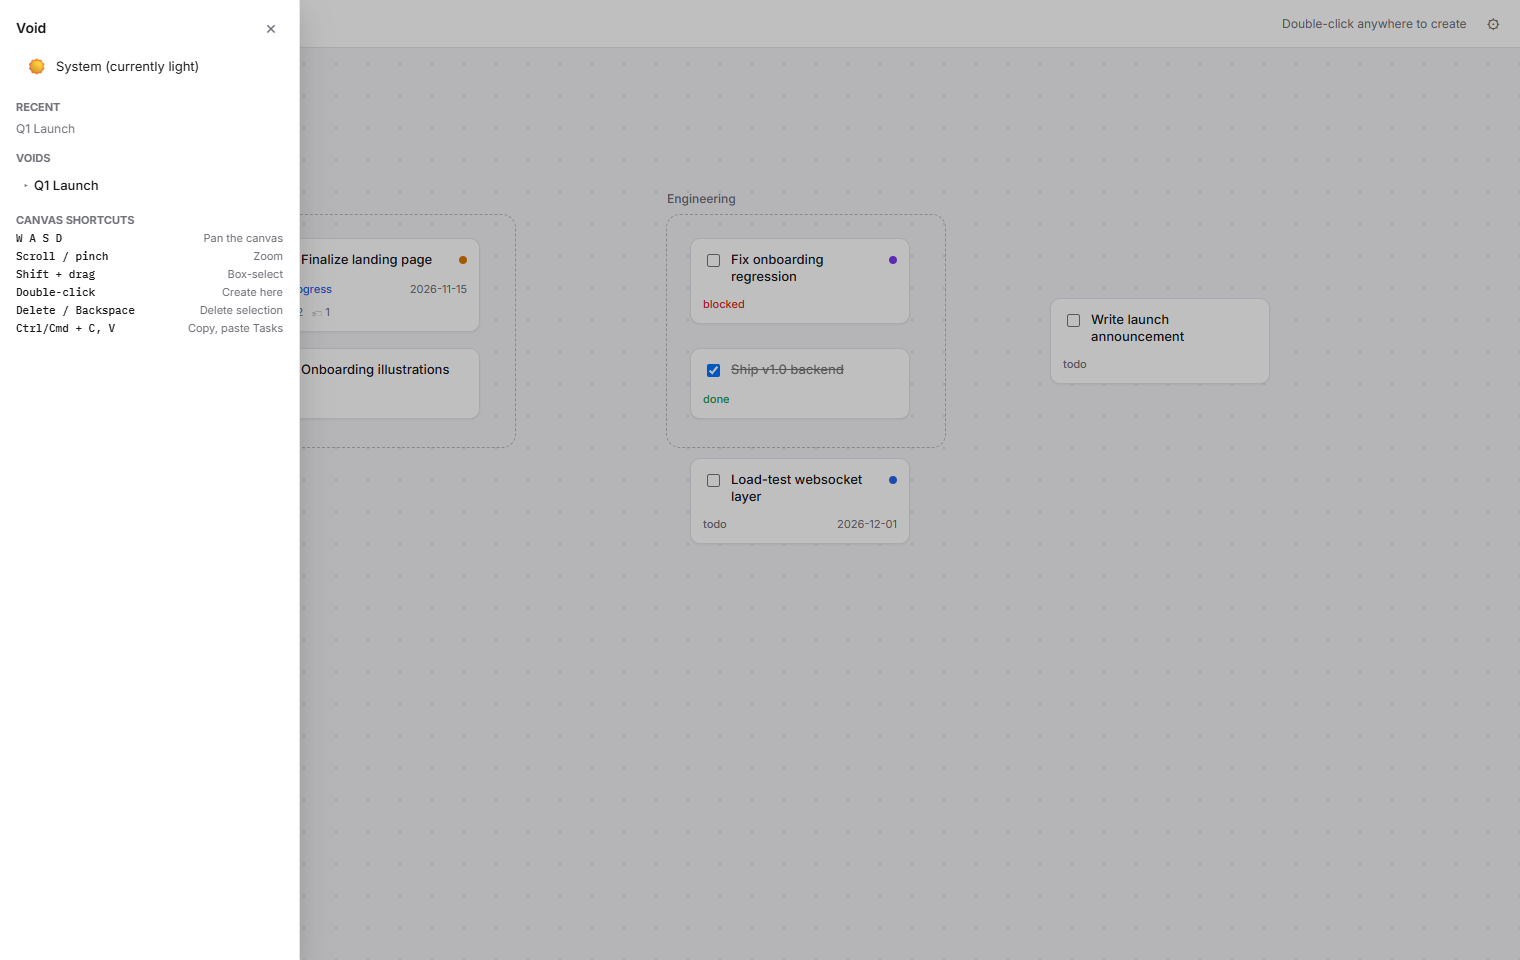
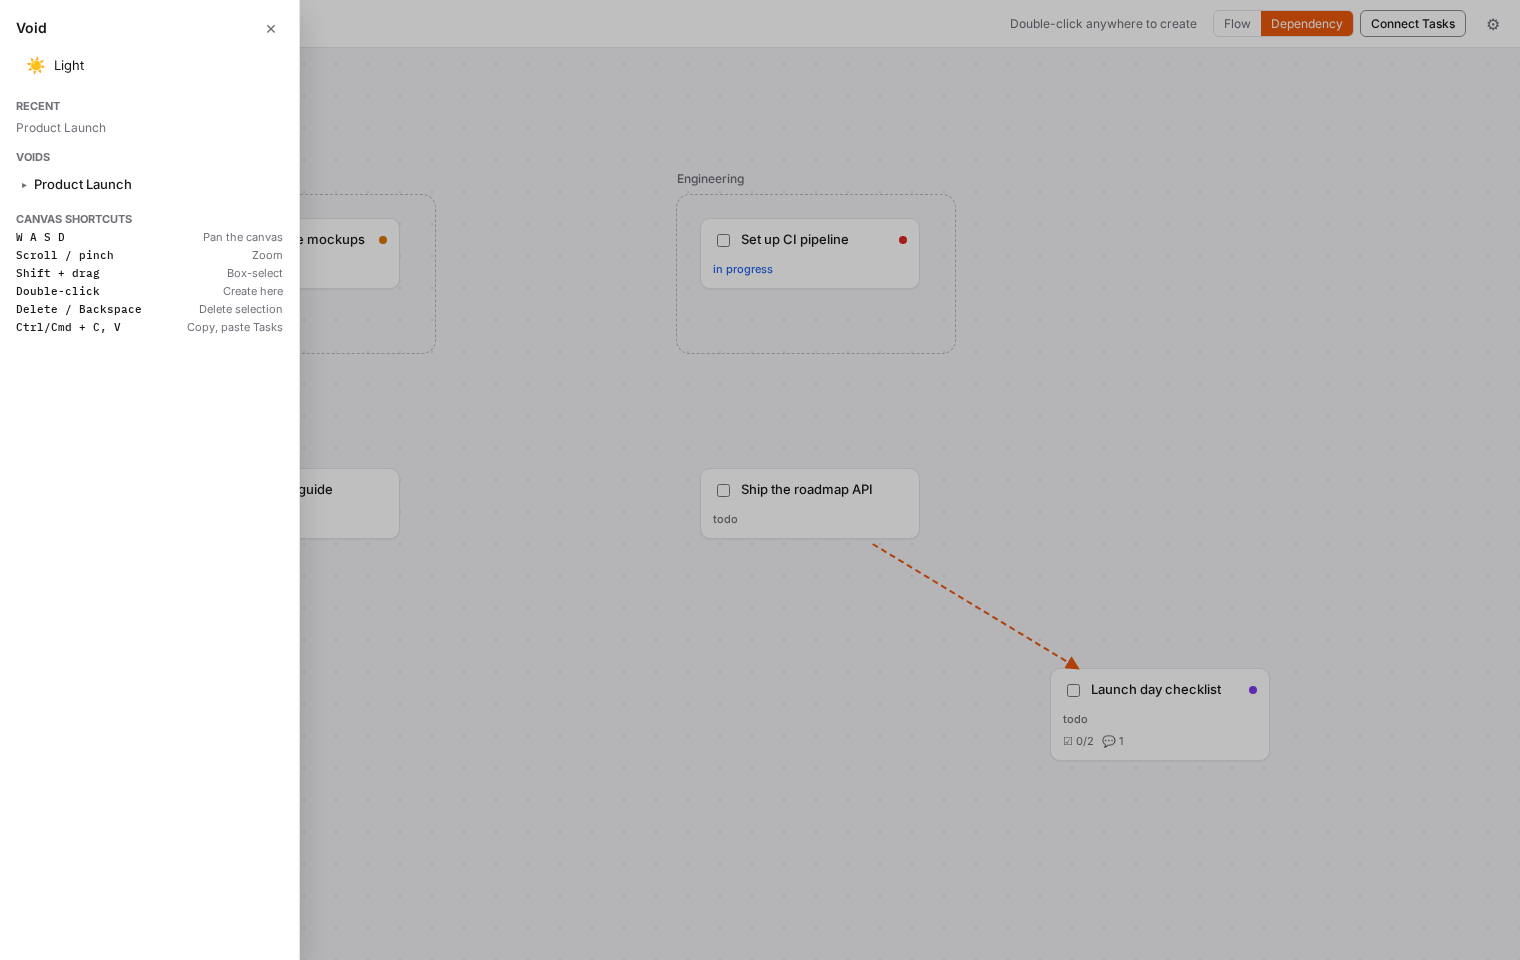
Refresh README and screenshots for Task Links
Leads with a hero screenshot showing flow/dependency arrows, adds Task
Links and the mutation-feedback work to Features, fixes stale
references to the removed docs/ folder and an outdated CI description,
and adds an author/contact section.

diff --git a/README.md b/README.md
@@ -1,7 +1,7 @@
 <div align="center">
   <img src="assets/logo/void-logo.svg" alt="Void" width="360" />
 
-  <p><strong>An infinite spatial canvas for teams who think better visually than in rows and columns.</strong></p>
+  <p><strong>Task management as a place, not a list — an infinite spatial canvas where work lives where you put it.</strong></p>
 
   <p>
     <a href="https://github.com/CastielJ/TheVoid/actions/workflows/ci.yml"><img src="https://github.com/CastielJ/TheVoid/actions/workflows/ci.yml/badge.svg" alt="CI status"></a>
@@ -10,98 +10,105 @@
     <img src="https://img.shields.io/badge/TypeScript-100%25-6366f1.svg" alt="TypeScript">
     <a href="CONTRIBUTING.md"><img src="https://img.shields.io/badge/PRs-welcome-6366f1.svg" alt="PRs welcome"></a>
   </p>
+
+  <p>
+    <a href="https://e-z.bio/trite"><strong>e-z.bio/trite</strong></a>
+  </p>
+
+  <br />
+
+  <img src="assets/screenshots/canvas-overview.png" alt="Groups auto-sizing around their Tasks, connected by flow and dependency arrows" width="820" />
 </div>
 
 ---
 
-Void is a **spatial team task-management platform**. Instead of yet another
-list or kanban board, work lives on an infinite pan-and-zoom canvas: create
-**Groups** as spatial clusters of **Tasks**, drag things around, zoom out to
-see the whole picture, zoom in to get precise — with everyone's changes
-syncing live, in real time, over WebSockets.
+Most task tools force everything into rows and columns. Void doesn't: work
+lives on an infinite pan-and-zoom canvas, exactly where you drop it. Cluster
+related work into **Groups** that auto-size around their **Tasks**, connect
+Tasks to each other with directional **Task Link** arrows, zoom out for the
+whole board, zoom in to get precise — with every change syncing live to
+everyone else looking at the same canvas.
 
 Organizations contain **Voids** — self-contained workspaces, each with their
-own canvas. A Void can be nested under another Void to form a **Team** (a
-sub-workspace with its own membership and visibility, exactly like a
-subdirectory), so a company can model "Engineering" and "Design" as their
-own spaces inside a shared "Product Launch" Void, or keep them fully
-independent — whatever actually matches how the team is organized.
+own canvas. A Void can nest under another Void to form a **Team** (its own
+membership and visibility, exactly like a subdirectory), so a company can
+model "Engineering" and "Design" as spaces inside a shared "Product Launch"
+Void — or keep them fully independent. Whatever matches how the team
+actually works.
 
 ## Contents
 
-- [Screenshots](#screenshots)
 - [Features](#features)
+- [More screenshots](#more-screenshots)
 - [Tech stack](#tech-stack)
 - [Getting started](#getting-started)
 - [Project structure](#project-structure)
-- [Common commands](#common-commands)
 - [Architecture highlights](#architecture-highlights)
 - [Testing](#testing)
-- [Documentation](#documentation)
 - [Contributing](#contributing)
 - [Security](#security)
+- [Author](#author)
 - [License](#license)
 
-## Screenshots
+## Features
+
+- **Spatial canvas** — infinite pan/zoom, WASD + mouse navigation,
+  box-select, copy/paste, drag-to-reposition, virtualized rendering that
+  stays smooth at ~1,500+ objects per Void.
+- **Task Links** — connect Tasks with directional arrows: drag a connector
+  handle between two cards, or arm a toolbar button and click source then
+  target. **Flow** links are a visual suggested order; **dependency**
+  links are enforced — a Task can't be marked done while one it depends on
+  isn't.
+- **Auto-sizing Groups** — a tight bounding box the server recomputes over
+  its member Tasks, with a live preview while you drag a Task in or out.
+  Never manually resized.
+- **Fully inline task editing** — click a Task to expand it in place:
+  description, status, priority, due date, tags, multi-assignee, checklist,
+  threaded comments, all on the card itself, with a guard against losing
+  unsaved edits.
+- **Mutations that tell you what's happening** — a real pending state (a
+  spinner, a dimmed card) until the server confirms, and a toast instead of
+  silent failure when it doesn't.
+- **Nested Voids ("Teams")** — independent membership and one of three
+  visibility tiers per Void (public / private / invisible), with a real
+  join-request workflow for private spaces.
+- **Live realtime sync** — every Task/Group/Task-Link change broadcasts
+  over WebSockets to everyone viewing that Void, last-write-wins.
+- **Real light & dark themes**, synced server-side across devices —
+  including the canvas workspace itself, not just the UI chrome.
+- **Capability-based authorization** — every permission check is a named
+  function (`canEditVoid`, `canManageVoidAccess`, …), never a hardcoded
+  role string. Organization role never silently grants Void access.
+- **Auth that doesn't cut corners** — email+password or magic-link login,
+  optional TOTP 2FA with backup codes, breached-password checking (HIBP
+  k-anonymity), per-device session management.
+- **In-app notifications, search, and a cross-Void "My Tasks" view.**
+
+## More screenshots
 
 <table>
   <tr>
     <td width="50%">
-      <img src="assets/screenshots/canvas-overview.png" alt="The spatial canvas: auto-sizing Groups clustering Tasks, with status/priority/due-date badges" />
-      <p align="center"><em>The canvas — Groups auto-size to fit their Tasks</em></p>
+      <img src="assets/screenshots/task-expanded.png" alt="A Task card expanded inline, showing description, status, priority, due date, checklist, and comments" />
+      <p align="center"><em>Fully inline task editing — no side panel</em></p>
     </td>
     <td width="50%">
-      <img src="assets/screenshots/task-expanded.png" alt="A Task card expanded inline, showing description, status, priority, due date, tags, checklist, and comments" />
-      <p align="center"><em>Fully inline task editing — no side panel</em></p>
+      <img src="assets/screenshots/canvas-dark-theme.png" alt="The same canvas in dark theme, with flow and dependency Task Links" />
+      <p align="center"><em>Real dark theme, canvas included</em></p>
     </td>
   </tr>
   <tr>
     <td width="50%">
-      <img src="assets/screenshots/canvas-dark-theme.png" alt="The same canvas in dark theme" />
-      <p align="center"><em>Real light and dark themes, canvas included</em></p>
+      <img src="assets/screenshots/left-panel.png" alt="The left navigation panel with theme toggle, recent Voids, and canvas shortcuts" />
+      <p align="center"><em>Nested Voids/Teams navigation, theme toggle, recents</em></p>
     </td>
     <td width="50%">
-      <img src="assets/screenshots/left-panel.png" alt="The left navigation panel with theme toggle, recent Voids, and the Voids/Teams tree" />
-      <p align="center"><em>Nested Voids/Teams navigation, theme toggle, recents</em></p>
+      <img src="assets/screenshots/org-dashboard.png" alt="Organization dashboard showing Voids, members, invitations, and settings" />
+      <p align="center"><em>Organization dashboard — Voids, members, invitations, settings</em></p>
     </td>
   </tr>
 </table>
-
-<p align="center">
-  <img src="assets/screenshots/org-dashboard.png" alt="Organization dashboard showing Voids, members, invitations, and settings" width="720" />
-  <br /><em>Organization dashboard — Voids, members, invitations, settings</em>
-</p>
-
-## Features
-
-- **Spatial canvas** — infinite pan/zoom workspace, WASD + mouse navigation,
-  box-select, copy/paste, drag-to-reposition, virtualized rendering that
-  stays smooth at ~1,500+ objects per Void.
-- **Auto-sizing Groups** — a Group is a server-computed tight bounding box
-  over its member Tasks, with a live preview while you drag a Task in or out
-  — never manually resized.
-- **Fully inline task editing** — click a Task to expand it in place:
-  description, status, priority, due date, tags, multi-assignee, checklist,
-  and threaded comments, all on the card itself. Explicit Save/Discard on
-  the core fields, with a guard against accidentally losing unsaved edits.
-- **Nested Voids ("Teams")** — a Void can contain child Voids, each with
-  independent membership and one of three visibility tiers (public /
-  private / invisible), with a real join-request workflow for private
-  spaces.
-- **Live realtime sync** — every Task/Group mutation broadcasts over
-  WebSockets to everyone viewing that Void, with last-write-wins conflict
-  resolution.
-- **Real light & dark themes** — a genuine second palette for both the UI
-  chrome and the canvas workspace itself, synced server-side across devices.
-- **Capability-based authorization** — every permission check is a named
-  capability function (`canEditVoid`, `canManageVoidAccess`, …), never a
-  hardcoded role string; Organization role never silently grants Void
-  access.
-- **Auth that doesn't cut corners** — email+password or magic-link login,
-  optional TOTP 2FA with backup codes, breached-password checking (HIBP
-  k-anonymity), server-side sessions with per-device management, login by
-  either email or username.
-- **In-app notifications, search, and a cross-Void "My Tasks" view.**
 
 ## Tech stack
 
@@ -113,13 +120,11 @@ independent — whatever actually matches how the team is organized.
 | Frontend     | React + [Vite](https://vitejs.dev)                                                                                                         |
 | Client state | [Zustand](https://github.com/pmndrs/zustand) (canvas/object state) + [TanStack Query](https://tanstack.com/query) (server state, via tRPC) |
 | Realtime     | Native WebSockets (`@fastify/websocket`), no external pub/sub required                                                                     |
-| Routing      | React Router                                                                                                                               |
-| Testing      | [Vitest](https://vitest.dev) (unit/integration) + [Playwright](https://playwright.dev) (critical-path E2E)                                 |
+| Testing      | [Vitest](https://vitest.dev) (unit/integration, both packages) + [Playwright](https://playwright.dev) (critical-path E2E)                  |
 | Monorepo     | pnpm workspaces (`packages/shared`, `packages/server`, `packages/web`)                                                                     |
 
 No Kubernetes, no message broker, no ORM-generated GraphQL schema to fight
-with — the stack is chosen to stay boring and debuggable at this project's
-actual scale.
+with — boring and debuggable at this project's actual scale.
 
 ## Getting started
 
@@ -139,8 +144,19 @@ pnpm dev:server   # Fastify + tRPC on :3000
 pnpm dev:web      # Vite + React on :5173, in a second terminal
 ```
 
-Open `http://localhost:5173` and sign up — the app is fully usable from a
-freshly migrated, empty database.
+Open `http://localhost:5173` and sign up — fully usable from a freshly
+migrated, empty database.
+
+```sh
+pnpm typecheck      # every package
+pnpm lint
+pnpm format         # write; use `format:check` in CI
+pnpm test           # unit + integration, every package
+pnpm --filter @void/web test:e2e   # Playwright critical-path suite
+
+pnpm db:generate    # generate a Drizzle migration from a schema.ts change
+pnpm db:migrate     # apply pending migrations
+```
 
 ## Project structure
 
@@ -157,101 +173,66 @@ void/
 │   │       └── db/            Drizzle schema + migrations
 │   └── web/       React + Vite frontend
 │       └── src/
-│           ├── canvas/        the spatial canvas itself (viewport, cards, store, spatial index)
+│           ├── canvas/        the spatial canvas (viewport, cards, edges, store, spatial index)
 │           ├── features/      page-level feature modules (org, void, auth, notifications, …)
 │           ├── app/           app shell, left panel, theming, session
 │           └── trpc/          typed tRPC client
-├── docs/          architecture, product spec, and a dated decision log
 ├── assets/        logo and README screenshots
 └── .github/       CI workflow, issue/PR templates
 ```
 
-## Common commands
-
-```sh
-pnpm typecheck      # every package
-pnpm lint
-pnpm format         # write; use `format:check` in CI
-pnpm test           # every package
-pnpm --filter @void/web test:e2e   # Playwright critical-path suite
-
-pnpm db:generate    # generate a Drizzle migration from a schema.ts change
-pnpm db:migrate     # apply pending migrations
-```
-
 ## Architecture highlights
 
-A few decisions worth knowing before you dig into the code:
-
 - **Access is never inferred from role alone.** An Organization Owner/Admin
-  does **not** automatically get access to every Void in the org — Void
-  access is always an explicit grant. (One narrow, documented exception:
-  Void _deletion_ specifically.) This is treated as non-negotiable
-  throughout the codebase.
+  does **not** automatically get access to every Void — access is always an
+  explicit grant, with one narrow, documented exception (Void _deletion_).
 - **Every mutation resolves its own parent IDs server-side.** A procedure
-  that acts on a child resource (a Group, a checklist item, a join request)
-  never trusts a client-supplied parent Void/Org ID — it looks the real
-  parent up from the resource itself.
-- **Groups are server-computed, not client-resizable.** A Group's bounds
-  are a tight bounding box recomputed over its member Tasks on every
-  relevant mutation — this eliminates an entire class of "my drag and your
-  drag disagree" bugs.
-- **A "Team" is just a Void.** `voids` is a self-referencing table
-  (`parentVoidId`) — nesting is unlimited by the schema, and a nested Void
-  gets its own independent canvas, membership, and visibility for free,
-  with zero special-casing in the canvas rendering code.
-
-The full reasoning behind these (and everything else) lives in
-[`docs/decisions.md`](docs/decisions.md), written chronologically as the
-project evolved — it's the best place to understand _why_ something is
-built the way it is, not just what it does.
+  acting on a child resource never trusts a client-supplied parent ID — it
+  looks the real parent up from the resource itself.
+- **Groups are server-computed, not client-resizable.** Bounds are a tight
+  bounding box recomputed over member Tasks on every relevant mutation —
+  no "my drag and your drag disagree" bugs.
+- **A "Team" is just a Void.** `voids` is a self-referencing table —
+  nesting is unlimited, and a nested Void gets its own canvas, membership,
+  and visibility for free, with zero special-casing in the canvas code.
+- **Task Links are real rows, not client-side decoration.** They live in
+  Postgres, broadcast over the same WebSocket channel as Task/Group
+  changes, and cascade-delete with either endpoint Task via explicit
+  application logic in the same transaction — Task deletion is always a
+  soft-delete, so a plain foreign-key cascade would never actually fire.
+- **The canvas only does the work a change needs.** Dragging a card
+  updates just that card's live position; the spatial index virtualization
+  depends on is left alone until the drag settles, instead of rebuilding
+  on every pointer-move frame.
 
 ## Testing
 
 - **Unit + integration** (Vitest) — the authorization/capability layer has
-  the highest-priority coverage in the project: every capability function
-  is tested for both the positive and negative case, against a real
-  Postgres database (not mocked).
+  the highest-priority coverage: every capability function is tested for
+  both the positive and negative case, against a real Postgres database.
 - **Critical-path E2E** (Playwright) — drives the real app through a
-  browser: signup → create org → create a Void → create a nested Team →
-  add members → create Groups/Tasks → assign work → verify authorized
-  access and unauthorized denial → visibility + join-request flow.
-
-```sh
-pnpm test                          # unit + integration, all packages
-pnpm --filter @void/web test:e2e   # E2E (spins up real Postgres-backed servers)
-```
+  browser: signup → org → Void → nested Team → members → Groups/Tasks →
+  assign work → authorized access and unauthorized denial → visibility +
+  join-request flow.
 
 CI ([`.github/workflows/ci.yml`](.github/workflows/ci.yml)) runs
-`typecheck` → `lint` → `format:check` → migrations → `test` →
-`test:e2e` on every push and pull request.
-
-## Documentation
-
-The `docs/` folder is the authoritative source for anything not obvious from
-the code itself:
-
-- [`docs/project-context.md`](docs/project-context.md) — product model,
-  entity relationships, MVP scope, and the non-negotiable architectural
-  rules. **Start here.**
-- [`docs/architecture.md`](docs/architecture.md) — system architecture in
-  more depth.
-- [`docs/decisions.md`](docs/decisions.md) — a dated, chronological log of
-  every non-obvious design decision and why it was made, including later
-  reversals of earlier decisions (kept, not silently deleted, so the
-  reasoning stays visible).
+`typecheck` → `lint` → `format:check` → migrations → `test` on every push
+and pull request.
 
 ## Contributing
 
-Contributions are welcome — see [`CONTRIBUTING.md`](CONTRIBUTING.md) for the
-full guide: dev setup, how migrations are generated, verification steps to
-run before opening a PR, and commit/PR conventions. Please also read our
-[Code of Conduct](CODE_OF_CONDUCT.md).
+Contributions are welcome — see [`CONTRIBUTING.md`](CONTRIBUTING.md) for dev
+setup, migration generation, pre-PR checks, and commit/PR conventions.
+Please also read our [Code of Conduct](CODE_OF_CONDUCT.md).
 
 ## Security
 
 Please report vulnerabilities privately — see [`SECURITY.md`](SECURITY.md).
 Do not open a public issue for a security report.
+
+## Author
+
+Built and maintained by **Trite** — [e-z.bio/trite](https://e-z.bio/trite)
 
 ## License
 
